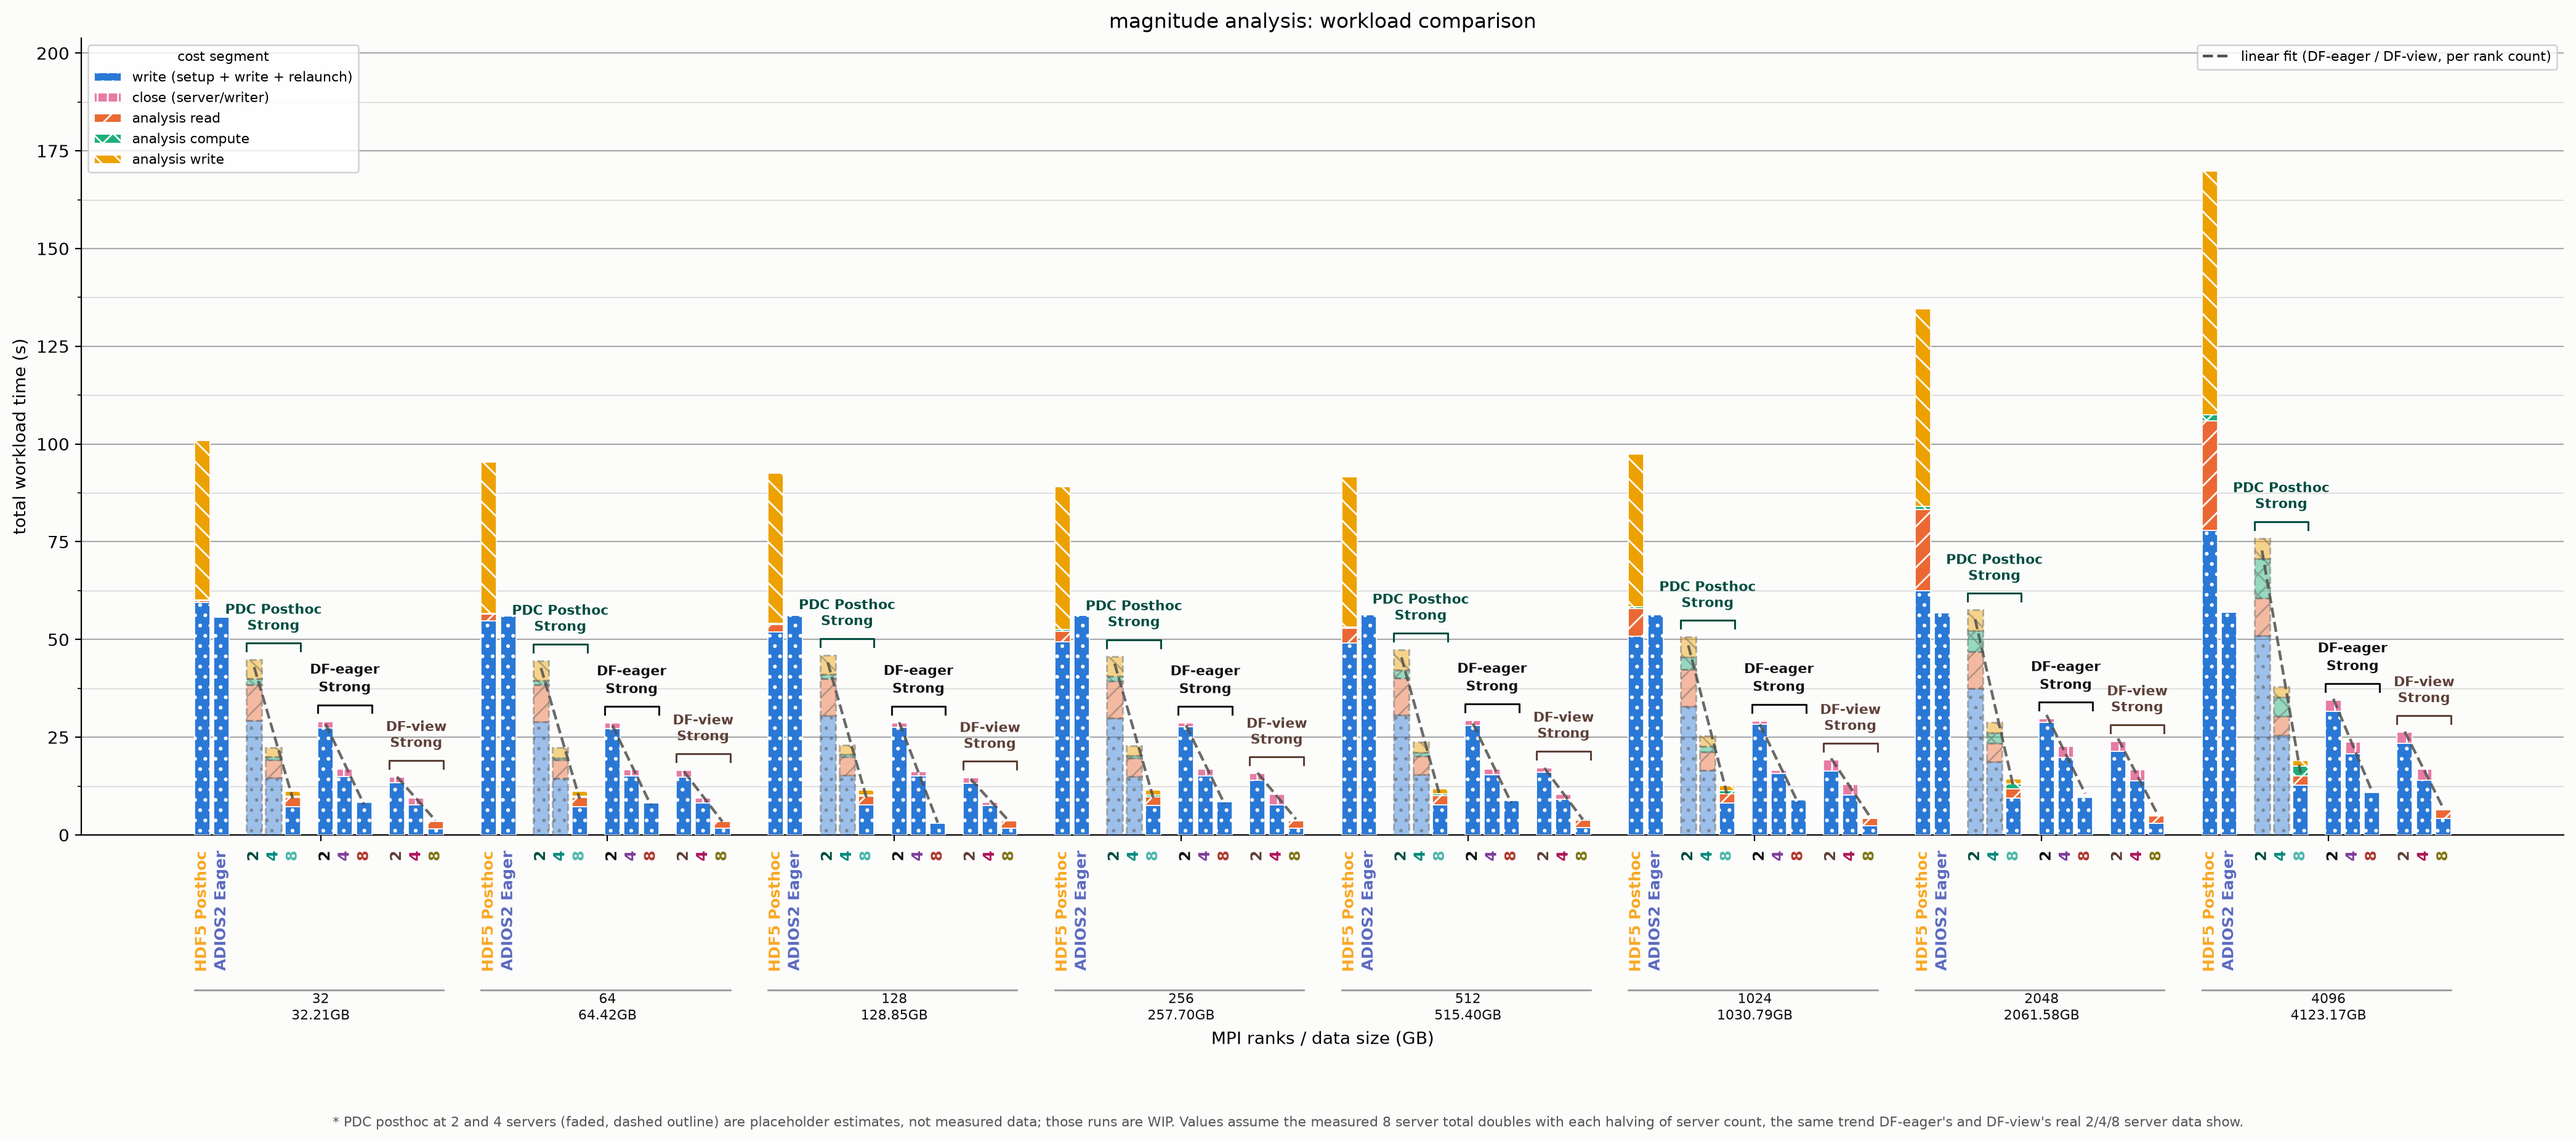
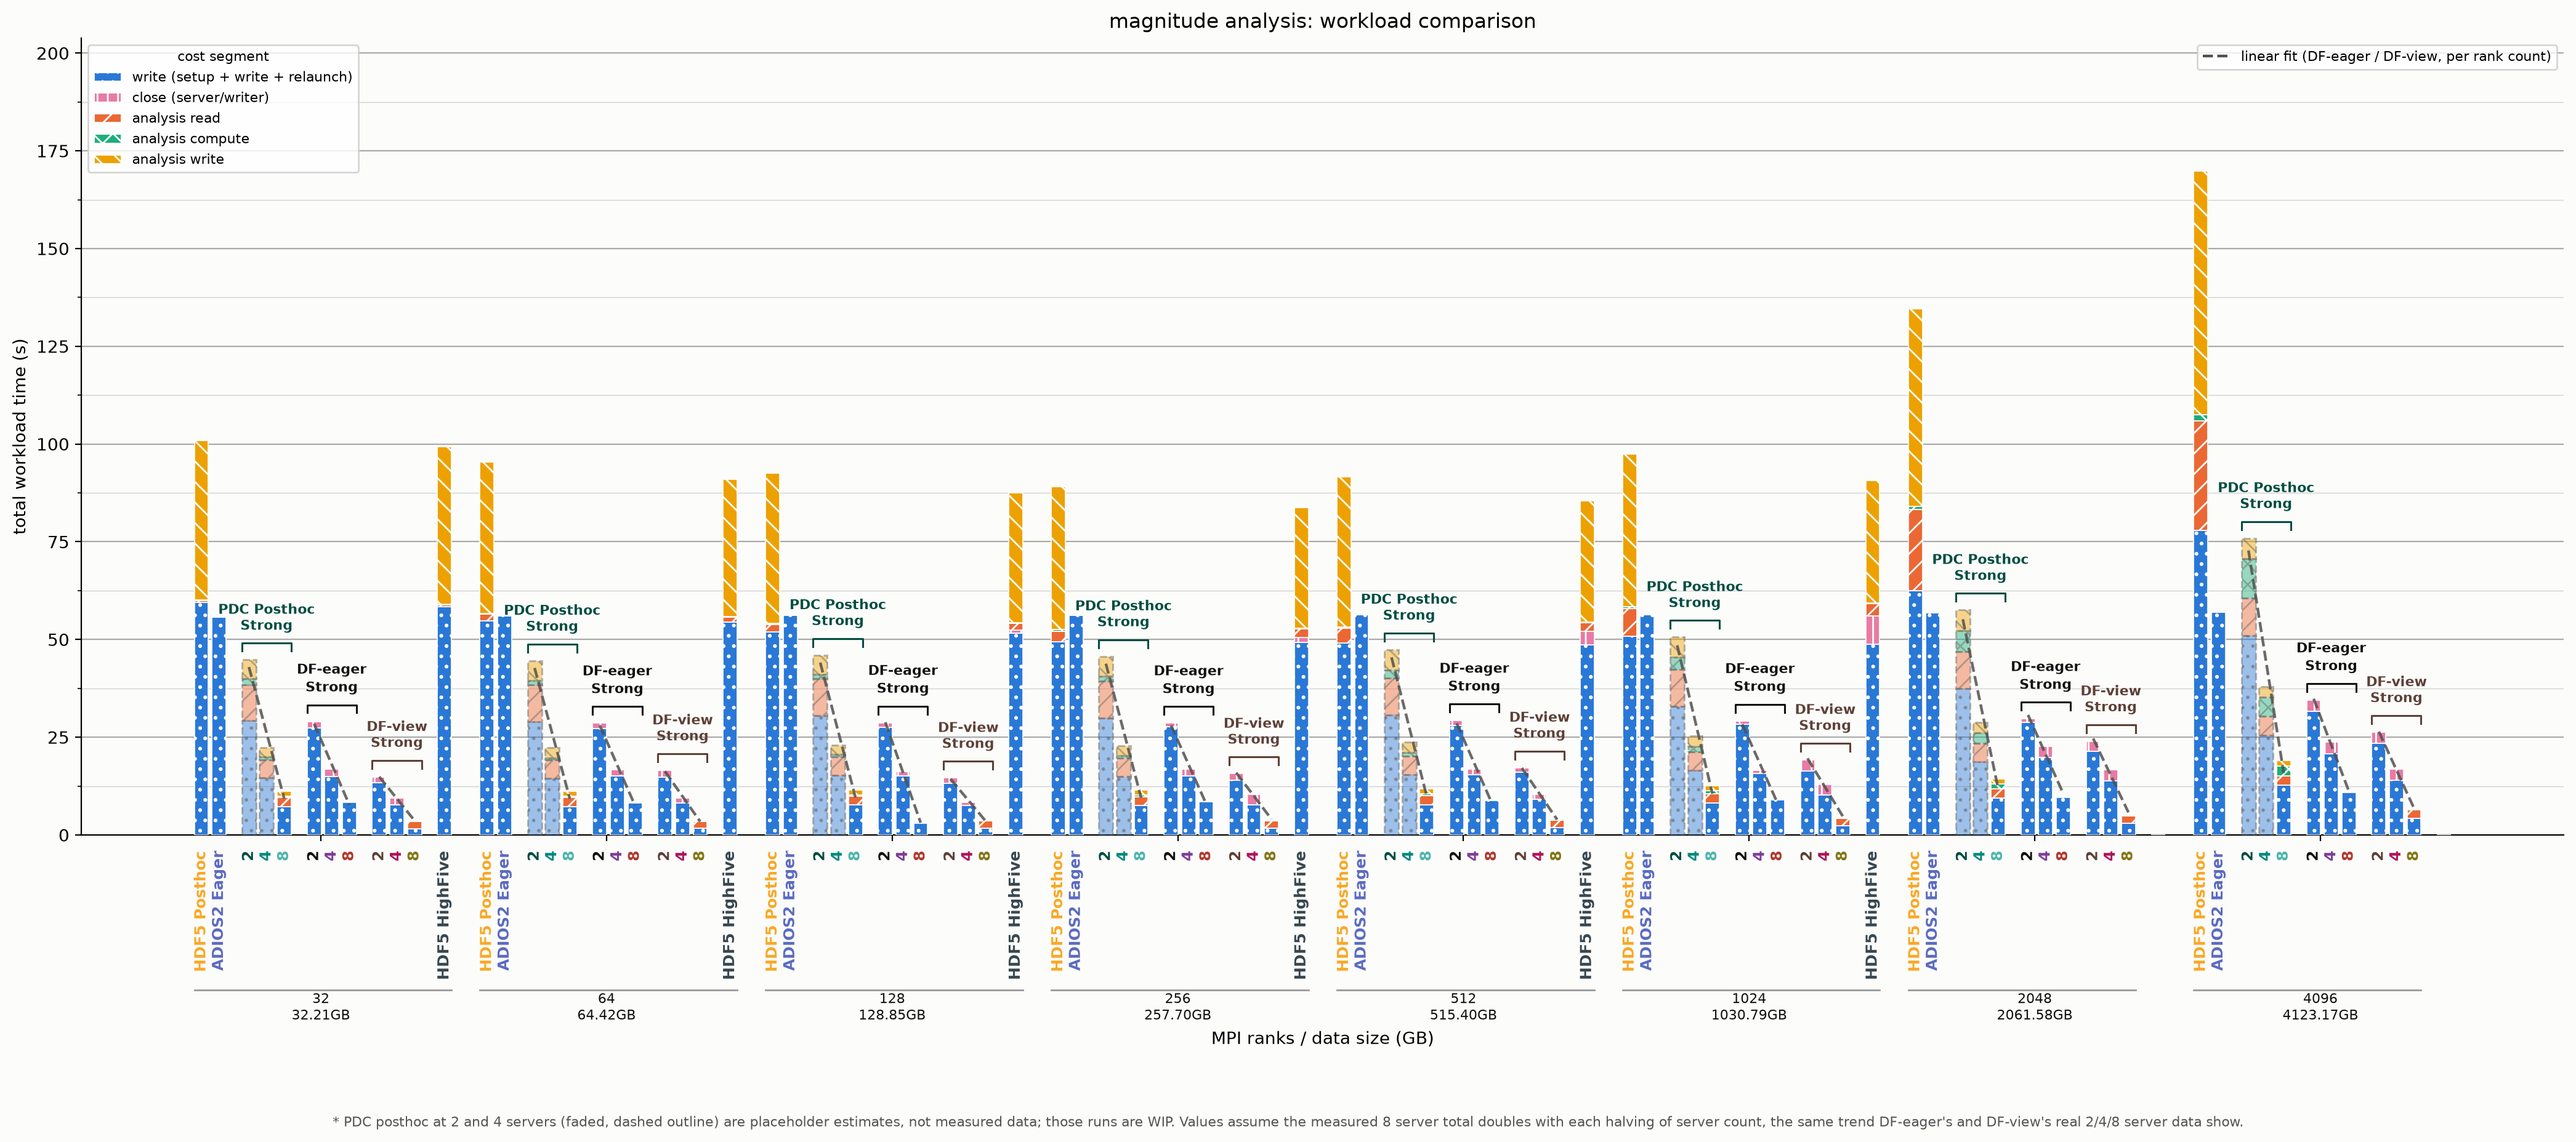
Add --server-count filter to plot_magnitude_comparison.py, one PNG per server count
New --server-count {2,4,8} flag restricts DF-eager/DF-view/PDC posthoc
to a single servers-per-node value -- one plain bar per mode instead of
the 2/4/8-server bracket + trend line (both are skipped, since neither
makes sense across a single point), with the mode name moved into the
bar label since the bracket header that normally carries it is gone.
Generates magnitude_comparison_{2,4,8}servers.png alongside the default
combined chart.

Claude-Session: https://claude.ai/code/session_018SQY4wo4xQPFn1NkY3KKc6

diff --git a/pdc_helper_scripts/plots/plot_magnitude_comparison.py b/pdc_helper_scripts/plots/plot_magnitude_comparison.py
@@ -354,9 +354,17 @@ def main():
     ap.add_argument("--highfive-root", default=default_highfive_root, help="Directory holding results_magnitude_highfive_*.csv (default: analysis/magnitude/highfive)")
     ap.add_argument("--out", default=None, help="Output PNG path (default: <script dir>/magnitude_comparison.png)")
     ap.add_argument("--modes", default=",".join(DEFAULT_PLOT_MODES), help="Comma-separated subset of modes to plot")
+    ap.add_argument(
+        "--server-count", type=int, default=None, choices=[2, 4, 8],
+        help="Restrict DF-eager/DF-view/PDC posthoc to just this one servers-per-node value "
+             "(one plain bar per mode instead of a 2/4/8-server bracket + trend line). "
+             "Default: all server counts found on disk, bracketed as usual.",
+    )
     args = ap.parse_args()
 
-    out_path = args.out or os.path.join(script_dir, "magnitude_comparison.png")
+    out_path = args.out or os.path.join(
+        script_dir, f"magnitude_comparison_{args.server_count}servers.png" if args.server_count else "magnitude_comparison.png"
+    )
 
     modes = [m.strip() for m in args.modes.split(",") if m.strip() and m.strip() != "eager"]
     for m in modes:
@@ -375,6 +383,10 @@ def main():
     server_counts = sorted({n_servers for rows in per_mode_rows.values() for (n_servers, _) in rows})
     if not server_counts:
         raise SystemExit(f"No results_<mode>_*.csv rows found under {args.results_root!r}")
+    if args.server_count is not None:
+        if args.server_count not in server_counts:
+            raise SystemExit(f"--server-count {args.server_count} not found on disk (available: {server_counts})")
+        server_counts = [args.server_count]
     print(f"Found server counts: {server_counts} (applies to both DF-eager and DF-view)")
 
     # series key -> n_ranks -> (segments, data_gb). PDC posthoc only has a
@@ -441,7 +453,15 @@ def main():
 
     def bar_label(key):
         mode, n_servers = key
-        return str(n_servers) if mode in MULTI_SERVER_MODES else MODE_LABEL[mode]
+        if mode in MULTI_SERVER_MODES:
+            # With --server-count, there's no bracket header naming the
+            # mode above a single bar (see the bracket-skip guard below),
+            # so the bar's own label has to carry the mode name instead
+            # of just its (now-constant, redundant) server count.
+            if args.server_count is not None:
+                return MULTI_SERVER_MODES[mode]["bracket_label"].split("\n")[0]
+            return str(n_servers)
+        return MODE_LABEL[mode]
 
     def bar_label_color(key):
         mode, n_servers = key
@@ -522,7 +542,12 @@ def main():
     for ms_mode, info in MULTI_SERVER_MODES.items():
         for gi, n_ranks in enumerate(all_ranks):
             keys = [(ms_mode, n) for n in server_counts if n_ranks in per_series[(ms_mode, n)]]
-            if not keys:
+            # A single selected server count (--server-count) has exactly
+            # one bar, not a span -- a "bracket" around one bar is just a
+            # zero-width vertical tick, not useful, so skip it (the
+            # linear-fit trend line below already has the identical
+            # len(xs) < 2 guard for the same reason).
+            if len(keys) < 2:
                 continue
             xs = [bar_centers[(k, gi)] for k in keys]
             local_max = max(sum(per_series[k][n_ranks][0].values()) for k in keys)
@@ -563,7 +588,10 @@ def main():
     ax.set_xticklabels([rank_gb_label(n) for n in all_ranks])
     ax.set_xlabel("MPI ranks / data size (GB)")
     ax.set_ylabel("total workload time (s)")
-    ax.set_title("magnitude analysis: workload comparison")
+    title = "magnitude analysis: workload comparison"
+    if args.server_count is not None:
+        title += f" ({args.server_count} servers/node)"
+    ax.set_title(title)
     ax.yaxis.set_minor_locator(AutoMinorLocator(2))
     ax.yaxis.grid(True, which="major", linestyle="-", linewidth=0.8, color="#888888", alpha=0.7, zorder=0)
     ax.yaxis.grid(True, which="minor", linestyle="-", linewidth=0.5, color="#aaaaaa", alpha=0.5, zorder=0)

diff --git a/pdc_helper_scripts/plots/README.md b/pdc_helper_scripts/plots/README.md
@@ -33,3 +33,15 @@ python3 plot_vpicio_comparison.py
 Each accepts `--*-root` flags to point at a different results location
 and `--out` to write elsewhere -- see `--help` or the script's own
 docstring for the exact flags and default paths.
+
+`plot_magnitude_comparison.py` additionally takes `--server-count
+{2,4,8}` to produce a single-server-count variant instead of the default
+2/4/8-bracketed comparison: one plain bar per mode (no bracket, no
+trend line -- both only make sense across multiple server counts), title
+and output filename tagged with the count:
+
+```
+python3 plot_magnitude_comparison.py --server-count 2   # magnitude_comparison_2servers.png
+python3 plot_magnitude_comparison.py --server-count 4   # magnitude_comparison_4servers.png
+python3 plot_magnitude_comparison.py --server-count 8   # magnitude_comparison_8servers.png
+```
